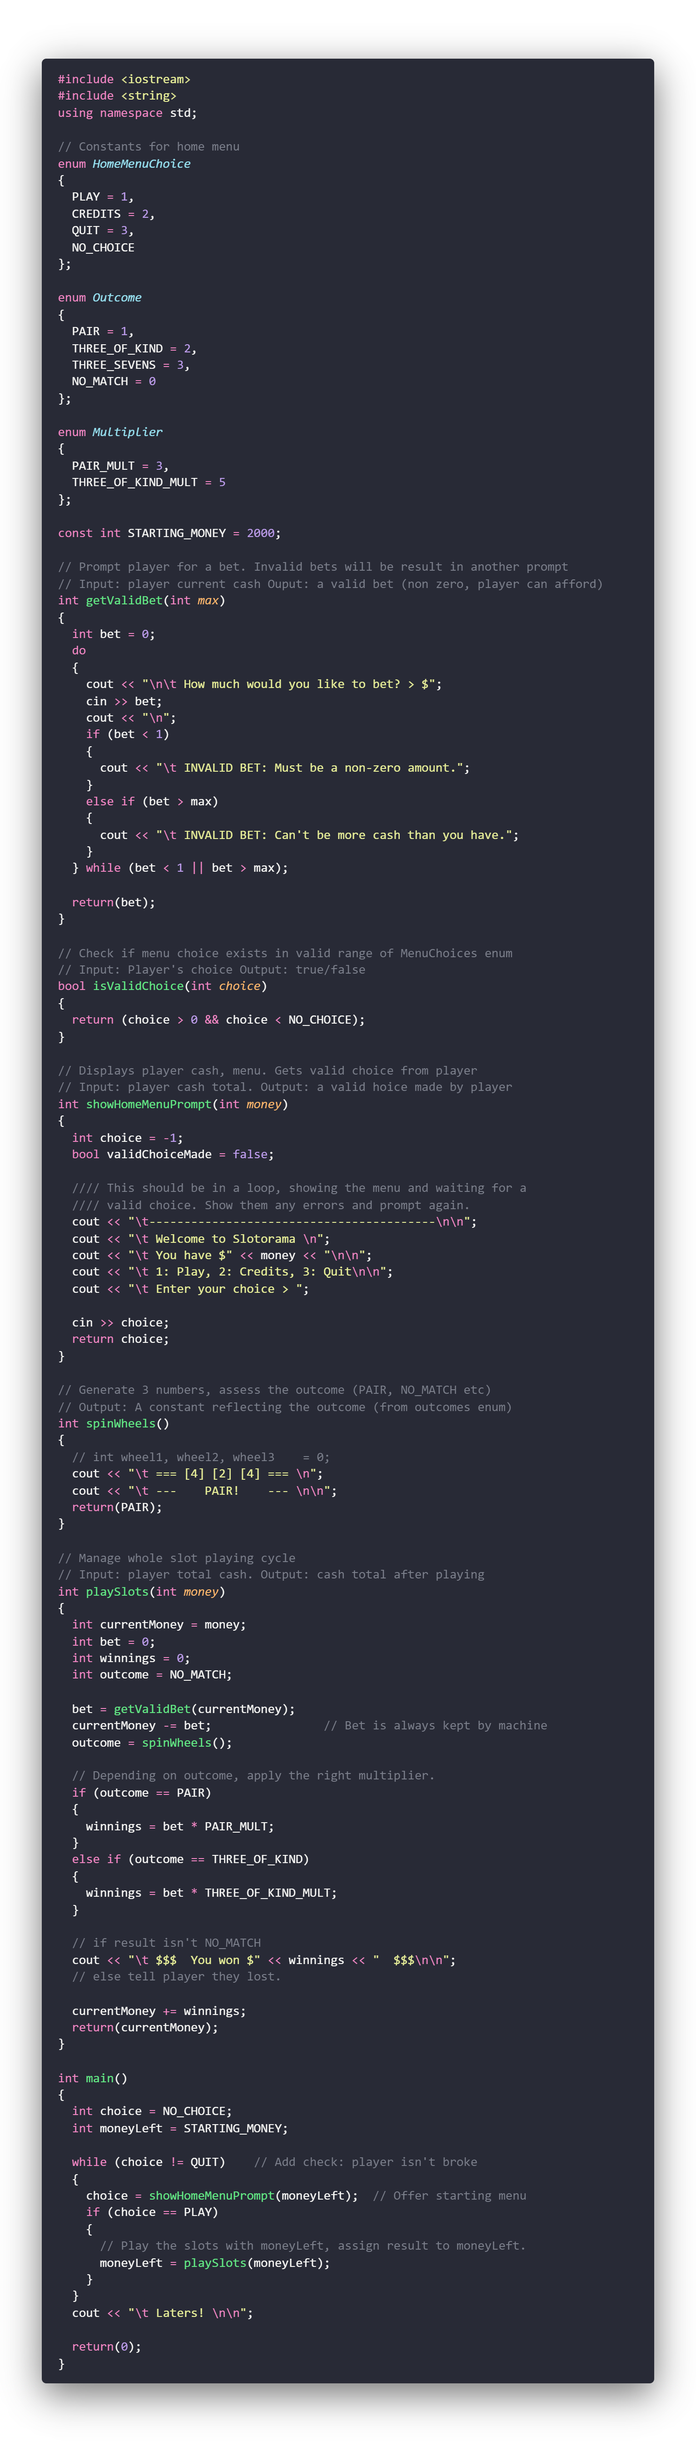
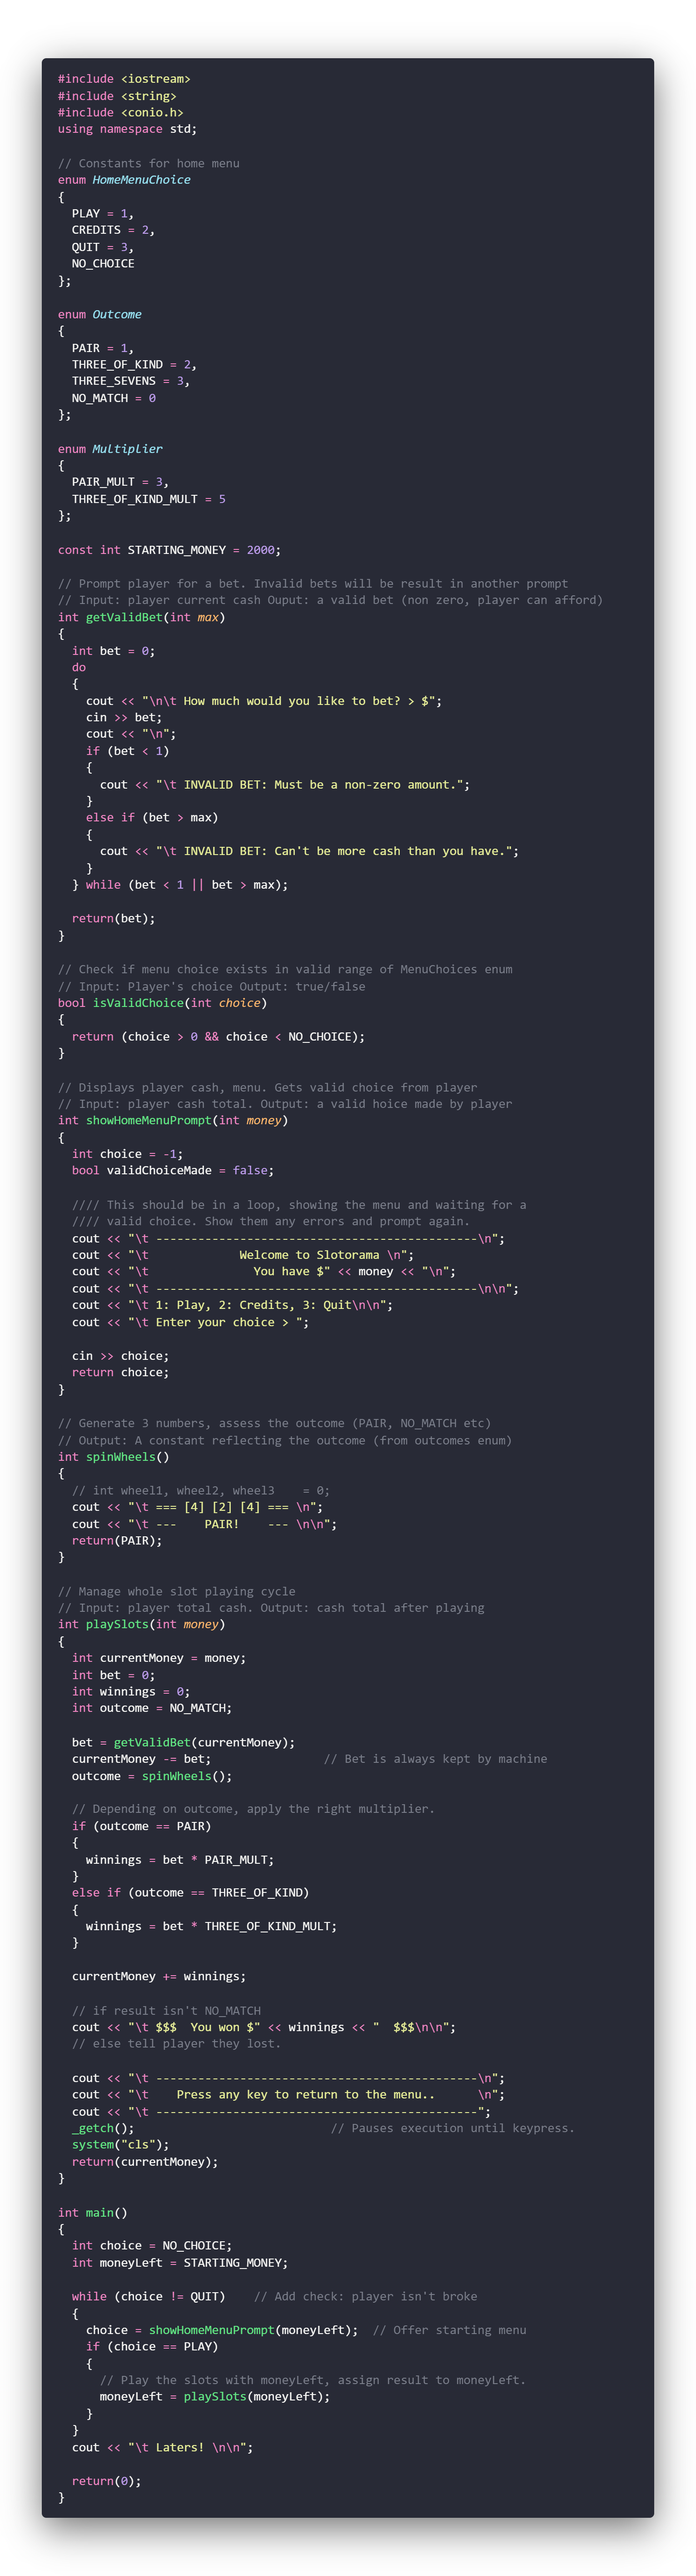
debug output, cls and wait for press.

diff --git a/content/en/torrens/ise102/week7/_index.md b/content/en/torrens/ise102/week7/_index.md
@@ -68,7 +68,19 @@ Encourage your program to tell you things.
 
 This is called `debug output`, and like a gun in Samuel L Jackson's hand, it makes the program more _verbose_.
 
-// example of adding cout to see the data
+#### Example
+
+Say we were calling `spinWheels()` in our slot machine to 1. generate 3 numbers and 2. check for a win. If the winnings were wrong for a given bet we might need to see variable values at certain times. We can do that with lots of cout statements. The word "DEBUG:" is just for readability.
+
+{{< imgcard debug_output_bet_outcomes Link "debug_output_bet_outcomes.png">}}
+Couts inserted: Click to zoom.
+{{< /imgcard >}}
+
+{{< imgcard debug_outcomes_running Link "debug_outcomes_running.png">}}
+Debug output while testing the game: Click to zoom
+{{< /imgcard >}}
+
+
 
 pros: 
 * you can make lots of new information available: 
@@ -119,7 +131,11 @@ Step through Danny's answer to homework.
 ## More Slots
 
 {{< imgcard slots_3_output Link "slots_3_output.png">}}
-Click to expand.
+Slots 3 with real bets and fake spin. Click to expand.
+{{< /imgcard >}}
+
+{{< imgcard slots_3_output Link "slots_3_output.png">}}
+Slots 3 after key press to return. Click to expand.
 {{< /imgcard >}}
 
 The game now:
@@ -129,6 +145,7 @@ The game now:
 1. Uses `outcome` and `bet` to calculate `winnings` (in `playSlots` function)
 1. Has an `enum` containing outcomes like `PAIR` and `THREE_OF_KIND`.
 1. Has an `enum` containing multipliers for each cash prize.
+1. Waits for keypress after a game, then clears screen and returns to menu.
 
 ### Simple View: See The Pieces First
 
@@ -149,13 +166,20 @@ Main hasn't changed. "Playslots" basically coordinates it's own team.
 Each function alone reads like a pretty simple program. Manageable chunks that you can write!
 {{< /imgcard >}}
 -->
+
+### New Tricks
+
+* `_getch` waits for any keypress. Requires `#include <conio.h>`.
+* `system("cls");` clears the console. It calls `cls`, a command in the windows console.
+* A `do.. while()` loop in the flesh.
+
 ## Coding Conventions
 
 Agreeing on a style of code formatting and capitalisation.
-(Grab from old week 6)
-https://dmcgits.github.io/mds/ISE102/week6_notes.html
 
-Link to resources, step through conventions there.
+In my old week 6 notes:
+[https://dmcgits.github.io/mds/ISE102/week6_notes.html](https://dmcgits.github.io/mds/ISE102/week6_notes.html)
+
 
 
 
